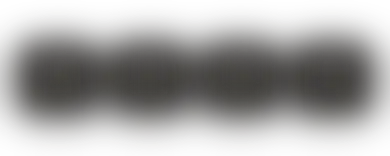
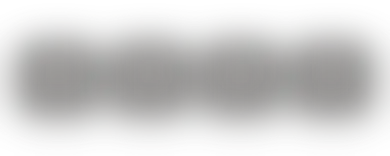
Scroll-driven hero fades, earlier blur under the stickers, lighter blur for black type
Claude-Session: https://claude.ai/code/session_015srq9B7aamxsEMEASfp4Nc

diff --git a/site/app.js b/site/app.js
@@ -547,16 +547,30 @@
     if (mobile) stack.style.marginBottom = -MB[MB.length - 1] + 'px';
     else mq.style.setProperty('margin-bottom', '0px', 'important');
     hazePairs = mobile
-      ? [[kicker, w30, 4, .45, [kicker]], [w30, row, 40, .7, [w30]], [row, heroIntro, -16, .3, [row]], [heroIntro, heroCd, -16, .35, [heroIntro]], [heroCd, mq, -10, .5, [heroCd]]]
+      ? [[kicker, w30, 4, .45, [kicker]], [w30, row, -24, .45, [w30]], [row, heroIntro, -16, .3, [row]], [heroIntro, heroCd, -16, .35, [heroIntro]], [heroCd, mq, -10, .5, [heroCd]]]
       : [[kicker, w30, 0, .5, [kicker]], [w30, heroBottom, 0, .45, [w30, row]], [heroBottom, mq, 0, .6, [heroIntro, heroCd]]];
     const names = new Map([[kicker, 'kicker'], [w30, 'thirty'], [row, 'badges'], [heroIntro, 'intro'], [heroCd, 'countdown']]);
     hazePairs.forEach((pr) => pr[4].forEach((el) => twin(el, names.get(el))));
     layers.forEach((el) => el._twin && el._twin.fit && el._twin.fit());
+    if (SDA) {
+      // the browser drives each fade from the scroll position itself: work out, per covered layer, between which
+      // scroll offsets the next layer slides over it (measured with the layers un-stuck)
+      heroEl.classList.add('measuring');
+      const docTop = (el) => el.getBoundingClientRect().top + scrollY;
+      hazePairs.forEach(([below, above, rest, span, targets]) => {
+        const Yb = docTop(below), Ya = docTop(above), Hb = Math.max(1, below.offsetHeight), Tb = parseFloat(below.style.top) || 0;
+        const y0 = Math.max(Ya - Tb - Hb + rest, Yb - Tb), y1 = y0 + Hb * span;
+        targets.forEach((el) => { const t = el._twin; if (t) t.sharp.style.animationRange = t.blur.style.animationRange = `${y0.toFixed(1)}px ${y1.toFixed(1)}px`; });
+      });
+      heroEl.classList.remove('measuring');
+      heroEl.classList.add('sda');
+    }
     coverFx();
   }
   // Blur without per-frame repaints: every layer gets a pre-blurred twin; scrolling only crossfades opacity,
   // which the phone composites on the GPU.
   let hazePairs = [];
+  const SDA = typeof CSS !== 'undefined' && CSS.supports && CSS.supports('animation-timeline: scroll()');
   // On phones the blurred copy is a pre-rendered image (assets/blur/*.webp, made by tools/blur-layers.js):
   // the phone only fades a flat bitmap in, instead of blurring a big live layer while scrolling.
   const BLUR_BITMAPS = innerWidth <= 640 && !/(^|[?&])(silver|etsy|etsyx|black|allblack|redx)\b/.test(location.search);
@@ -569,7 +583,7 @@
     if (BLUR_BITMAPS && name) {
       blur.classList.add('bmp');
       const im = new Image();
-      im.alt = ''; im.decoding = 'async'; im.src = `assets/blur/${name}.webp?v=1`;
+      im.alt = ''; im.decoding = 'async'; im.src = `assets/blur/${name}.webp?v=2`;
       blur.appendChild(im);
       el._twin = { sharp, blur, v: -1, img: im };
       const fit = () => {
@@ -591,6 +605,7 @@
   // keep the countdown's blurred twin ticking
   setInterval(() => { const t = heroCd && heroCd._twin; if (t && !t.img && t.v > 0) t.blur.innerHTML = t.sharp.innerHTML.replace(/ id="[^"]*"/g, ''); }, 1000);
   function coverFx() {
+    if (SDA) return;
     hazePairs.forEach(([below, above, rest, span, targets]) => {
       const a = below.getBoundingClientRect(), b = above.getBoundingClientRect();
       const p = Math.min(1, Math.max(0, (a.bottom - b.top - rest) / (Math.max(1, a.height) * span)));

diff --git a/site/styles.css b/site/styles.css
@@ -802,3 +802,10 @@ html.kicker-allblack .hero-kicker .kx { color: var(--ink) !important; -webkit-te
 /* phones: the blurred copy is a flat pre-rendered image */
 .lyr-blur.bmp { filter: none; padding: 0; display: block; overflow: visible; }
 .lyr-blur.bmp img { position: absolute; left: 50%; top: 0; translate: -50% 0; max-width: none; display: block; }
+
+/* scroll-driven fades (Safari 26+, Chrome): the browser crossfades sharp -> blurred copy from the scroll position */
+@keyframes lyr-out { from { opacity: 1; } to { opacity: 0; } }
+@keyframes lyr-in { from { opacity: .01; } to { opacity: .95; } }
+.hero.sda .lyr-sharp { animation: lyr-out linear both; animation-timeline: scroll(root block); }
+.hero.sda .lyr-blur { animation: lyr-in linear both; animation-timeline: scroll(root block); }
+.hero.measuring .hero-stack > *, .hero.measuring .hero-bottom, .hero.measuring .marquee { position: static !important; }

diff --git a/site/index.html b/site/index.html
@@ -20,9 +20,9 @@
 <link rel="preconnect" href="https://fonts.googleapis.com">
 <link rel="preconnect" href="https://fonts.gstatic.com" crossorigin>
 <link href="https://fonts.googleapis.com/css2?family=Unbounded:wght@400;700;900&family=Instrument+Sans:wght@400;500;600&family=Instrument+Serif:ital@0;1&family=JetBrains+Mono:wght@400;600&display=swap" rel="stylesheet">
-<link rel="stylesheet" href="styles.css?v=104">
+<link rel="stylesheet" href="styles.css?v=105">
 <script src="config.js?v=26"></script>
-<script src="app.js?v=104" defer></script>
+<script src="app.js?v=105" defer></script>
 </head>
 <body>
 <div class="page">

diff --git a/tools/blur-layers.py b/tools/blur-layers.py
@@ -13,6 +13,11 @@ for f in sorted(os.listdir(src)):
     b = np.asarray(blurred).astype(np.float32) / 255
     rgb = b[..., :3] / np.maximum(b[..., 3:4], 1e-4)
     outp = np.concatenate([np.clip(rgb, 0, 1), b[..., 3:4]], axis=-1)
+    # black type would smear as a dark smudge: lift those layers toward white and thin them out
+    light = {'kicker': (.6, .72), 'intro': (.6, .72), 'countdown': (.35, .85)}.get(f[:-4])
+    if light:
+        outp[..., :3] = outp[..., :3] * (1 - light[0]) + light[0]
+        outp[..., 3] *= light[1]
     o = Image.fromarray((outp * 255).astype(np.uint8)).resize((im.width // 2, im.height // 2), Image.LANCZOS)
     o.save(os.path.join(dst, f[:-4] + '.webp'), 'WEBP', quality=72, method=6)
     print(f, o.size, os.path.getsize(os.path.join(dst, f[:-4] + '.webp')) // 1024, 'KB')
